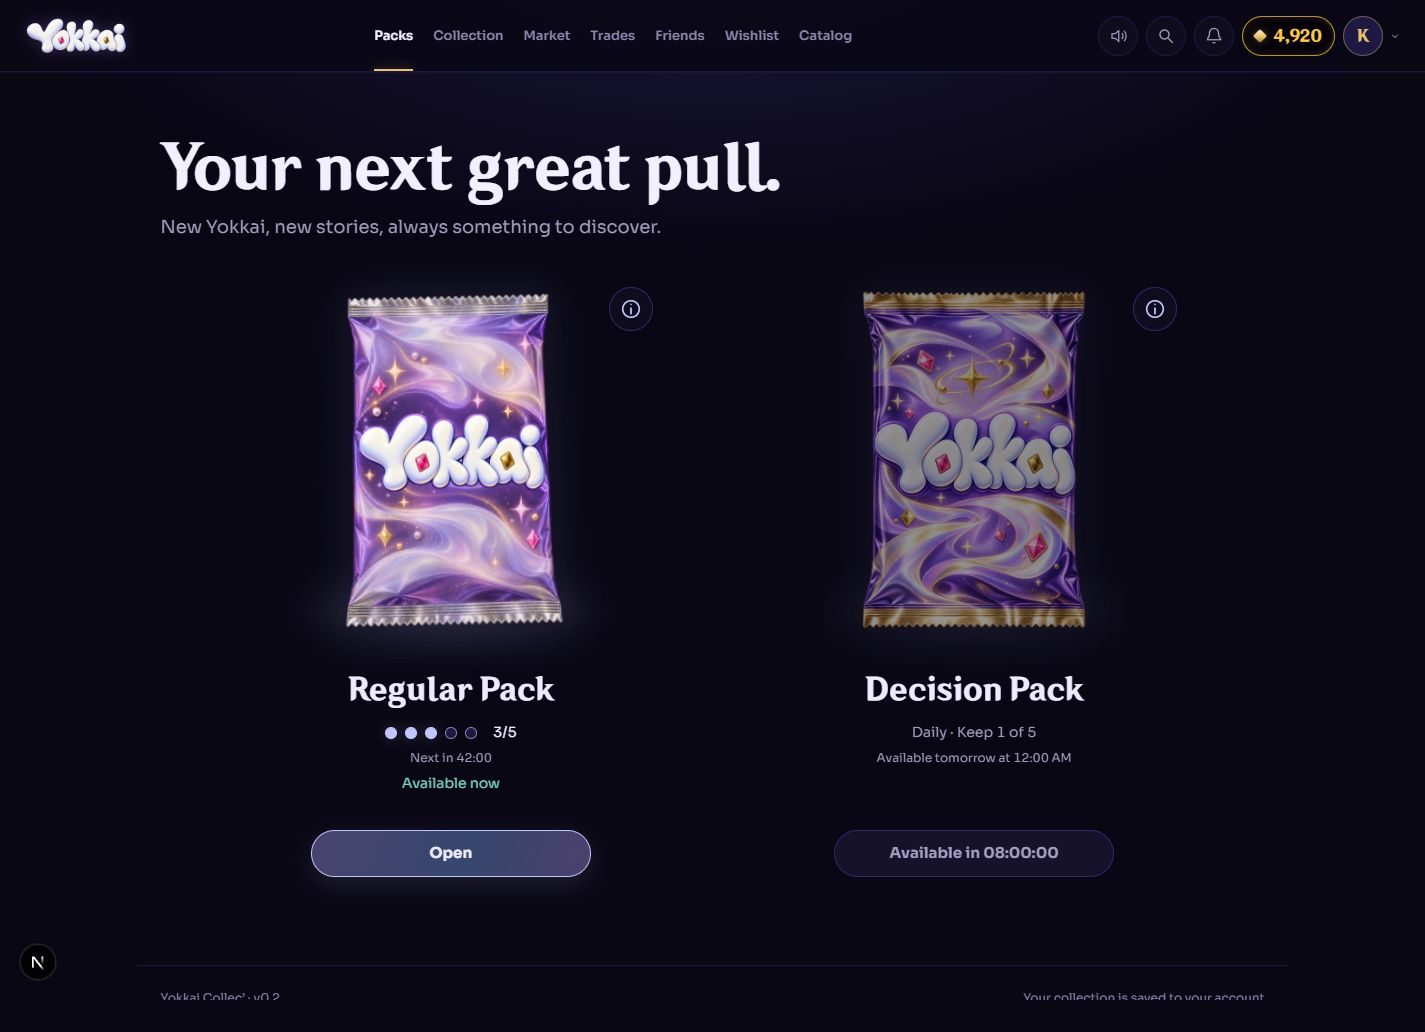
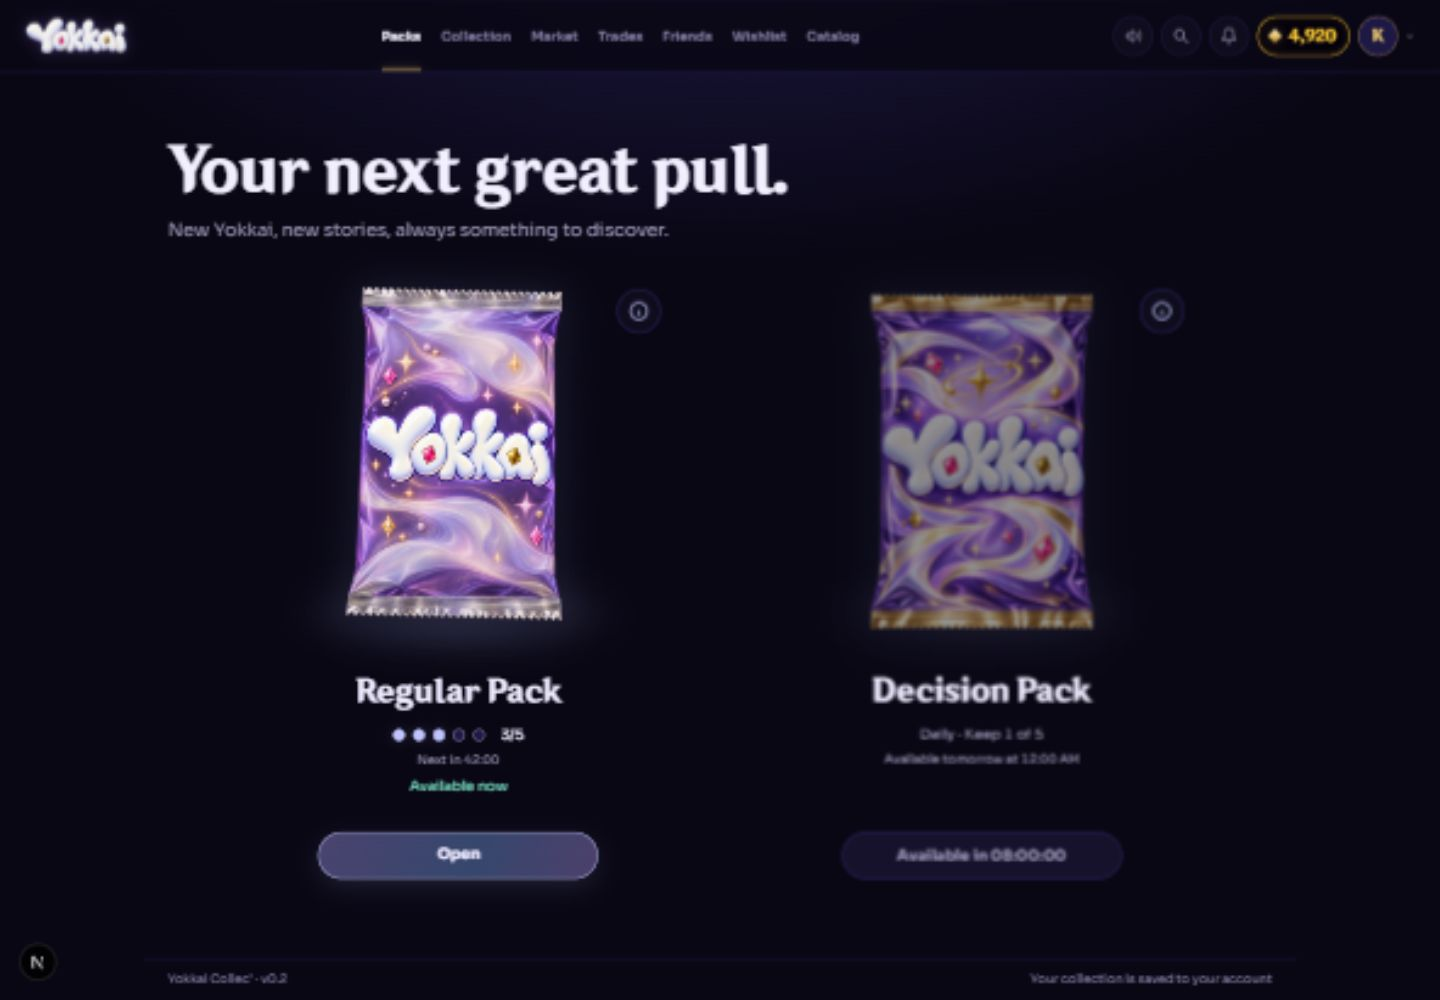
fix(ui): preserve the existing Packs footer spacing

diff --git a/styles/boosters-showcase.css b/styles/boosters-showcase.css
@@ -189,6 +189,11 @@
   }
 }
 @media (min-width: 701px) and (max-height: 1200px) {
+  .yk-game-main:has(.yk-pack-grid) + footer {
+    margin-top: 12px;
+    padding-top: 12px;
+    padding-bottom: 12px;
+  }
   .yk-pack-grid .yk-pack-panel .yk-pack-art-stage {
     height: clamp(220px, calc(100svh - 470px), 380px);
   }
